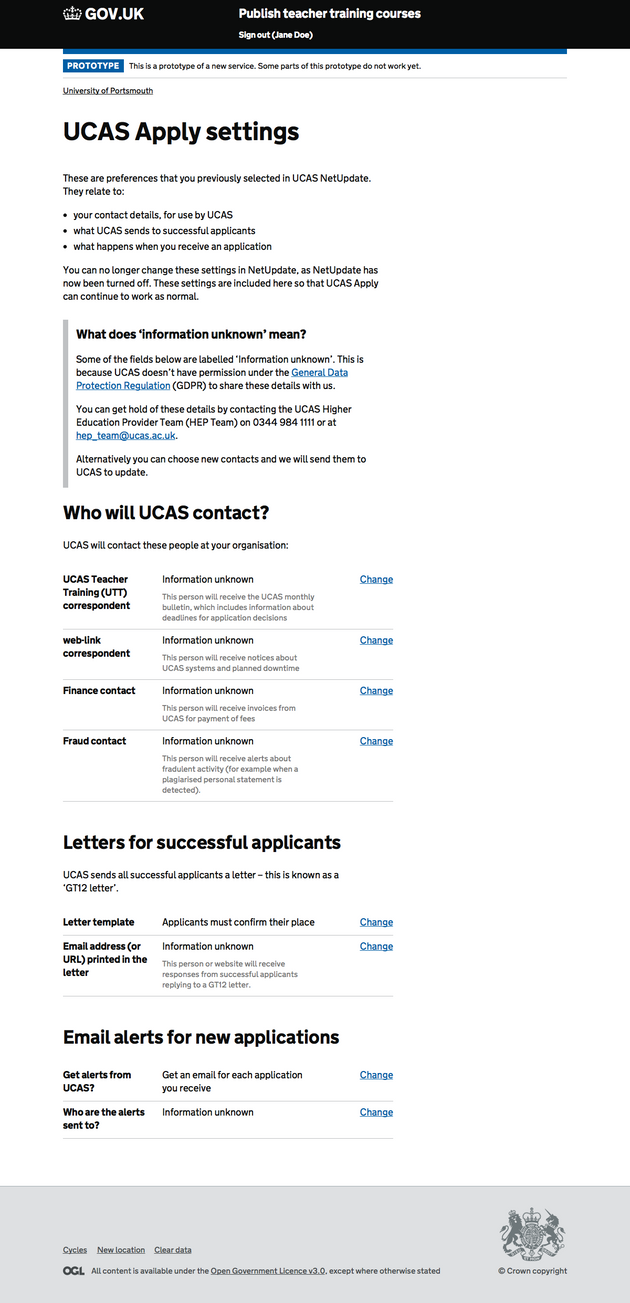
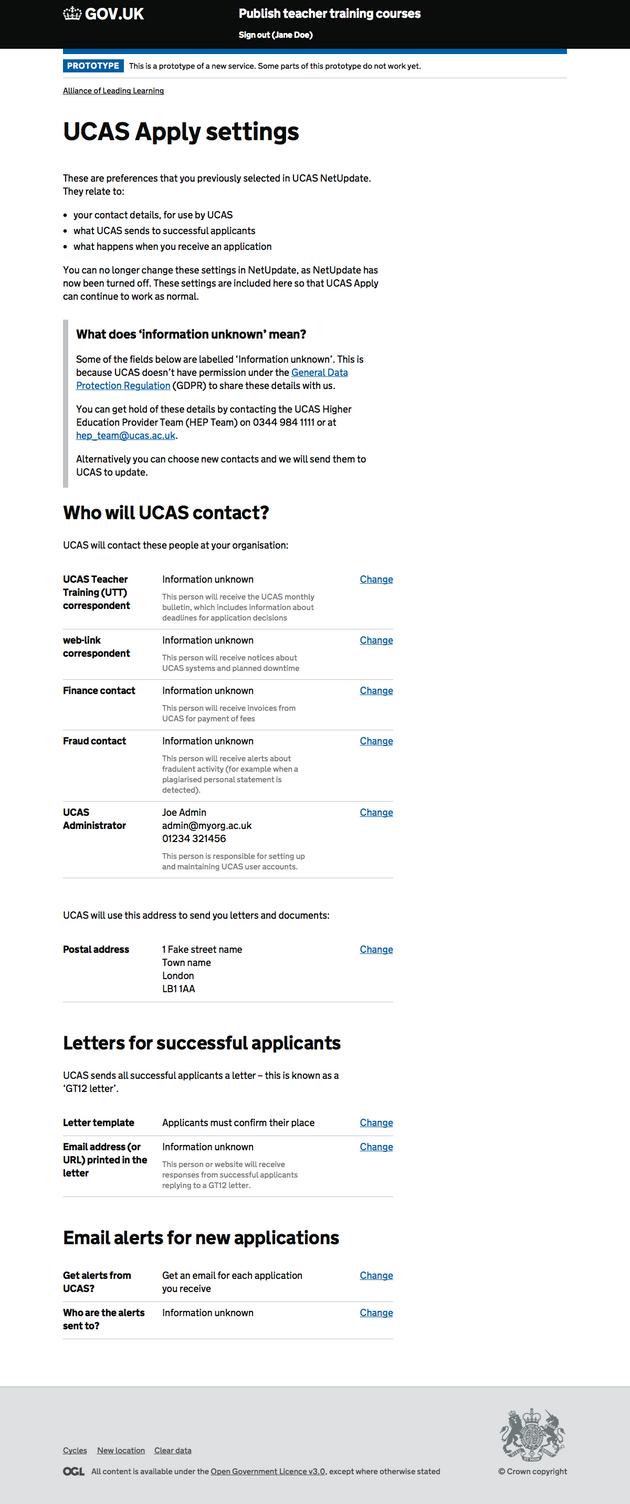
Add UCAS admin and postal address screens

diff --git a/app/views/publish-teacher-training/ucas-contacts/index.html b/app/views/publish-teacher-training/ucas-contacts/index.html
@@ -65,6 +65,8 @@
     { text: 'web-link correspondent', id: 'web-link-correspondent' },
     { text: 'Finance contact', id: 'finance-contact' },
     { text: 'Fraud contact', id: 'fraud-contact' },
+    { text: 'UCAS administrator', id: 'ucas-administrator' },
+    { text: 'Postal address', id: 'postal-address' },
     { text: 'Pick a letter for successful applicants', id: 'pick-a-letter-for-successful-applicants' },
     { text: 'Email alerts for new applications', id: 'email-alerts-for-new-applications' },
     { text: 'Old design: UCAS Apply preferences with contacts section', id: 'ucas-apply-preferences-with-contacts-section' },
@@ -81,6 +83,10 @@
   {{ designHistory.screenshot('Finance contact', 'finance-contact', '/public/images/publish-teacher-training/ucas-contacts/thumbnails/finance-contact.png', '/public/images/publish-teacher-training/ucas-contacts/finance-contact.png', '') }}
 
   {{ designHistory.screenshot('Fraud contact', 'fraud-contact', '/public/images/publish-teacher-training/ucas-contacts/thumbnails/fraud-contact.png', '/public/images/publish-teacher-training/ucas-contacts/fraud-contact.png', '') }}
+
+  {{ designHistory.screenshot('UCAS administrator', 'ucas-administrator', '/public/images/publish-teacher-training/ucas-contacts/thumbnails/ucas-administrator.png', '/public/images/publish-teacher-training/ucas-contacts/ucas-administrator.png', '') }}
+
+  {{ designHistory.screenshot('Postal address', 'postal-address', '/public/images/publish-teacher-training/ucas-contacts/thumbnails/postal-address.png', '/public/images/publish-teacher-training/ucas-contacts/postal-address.png', '') }}
 
   {{ designHistory.screenshot('Pick a letter for successful applicants', 'pick-a-letter-for-successful-applicants', '/public/images/publish-teacher-training/ucas-contacts/thumbnails/pick-a-letter-for-successful-applicants.png', '/public/images/publish-teacher-training/ucas-contacts/pick-a-letter-for-successful-applicants.png', '') }}
 
